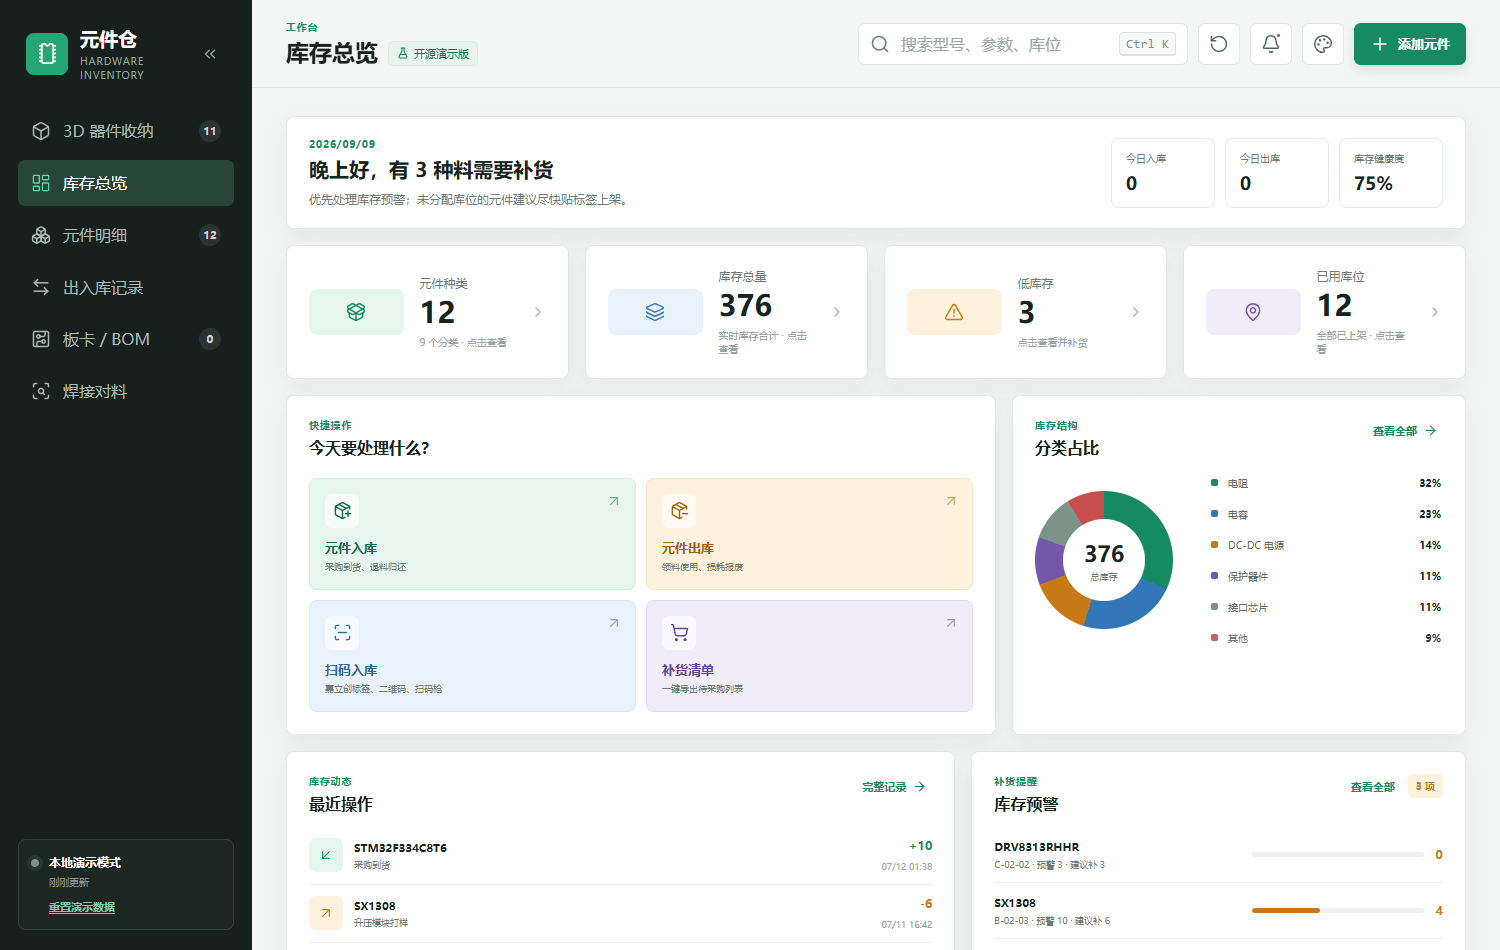
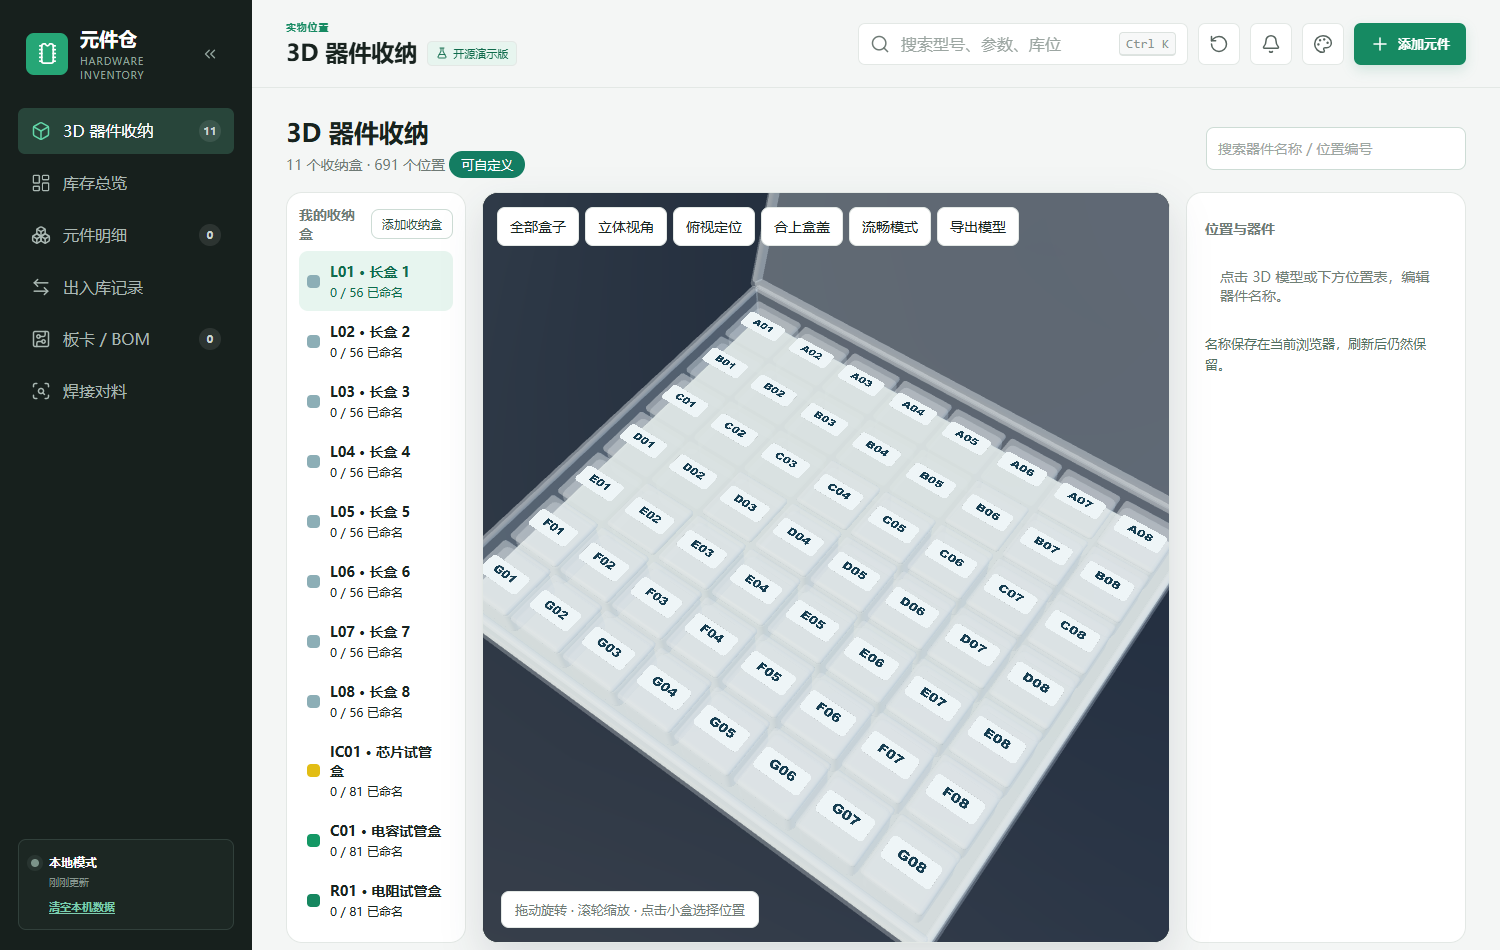
Start with an empty local warehouse and add local data reset

diff --git a/public/app.js b/public/app.js
@@ -1,7 +1,7 @@
 (() => {
   'use strict';
 
-  const STORAGE_KEY = 'component-vault-demo-data-v1';
+  const STORAGE_KEY = 'component-vault-open-source-data-v1';
   const CATEGORY_COLORS = ['#168a62', '#3377b8', '#c77917', '#7358ac', '#7c938a', '#c84e4e'];
   const titleMap = {
     storage: ['实物位置', '3D 器件收纳'],
@@ -14,36 +14,18 @@
 
   const lcscApiBase = String(window.LCSC_LOOKUP?.apiBase || '').replace(/\/$/, '');
   let syncStatus = 'local';
-  let syncMessage = '本地演示模式 · 数据只保存在当前浏览器';
+  let syncMessage = '本地模式 · 数据只保存在当前浏览器';
 
+  // 开源版默认是空仓库：不包含任何真实库存或演示元件。
+  // 访问者可以自己添加元件，数据只保存在浏览器 localStorage。
   const demoData = {
-    components: [
-      { id: 'cmp-001', name: 'STM32F334C8T6', code: 'C8734', category: 'MCU', brand: 'ST', package: 'LQFP-48', specs: 'Cortex-M4 · 72MHz · 128KB Flash', location: 'A-01-03', quantity: 18, min: 5, supplier: '立创商城', notes: '主控平台首选', updatedAt: '2026-07-12T01:38:00+08:00' },
-      { id: 'cmp-002', name: 'EG1192S', code: 'C49307690', category: 'DC-DC 电源', brand: 'EG（屹晶微）', package: 'ESOP-8', specs: '降压型 10V~100V · 3A · 110kHz', location: 'B-02-01', quantity: 30, min: 8, supplier: '立创商城', notes: '', updatedAt: '2026-07-12T01:12:00+08:00' },
-      { id: 'cmp-003', name: 'AP63356DV-7', code: 'C2157973', category: 'DC-DC 电源', brand: 'DIODES', package: 'VDFN3020-13', specs: '降压型 3.8V~32V · 3.5A', location: 'B-02-02', quantity: 20, min: 6, supplier: '立创商城', notes: '', updatedAt: '2026-07-11T18:20:00+08:00' },
-      { id: 'cmp-004', name: 'SX1308', code: 'C78162', category: 'DC-DC 电源', brand: 'SX（硕芯科技）', package: 'SOT-23-6', specs: '升压型 2V~24V · 2A · 1.2MHz', location: 'B-02-03', quantity: 4, min: 10, supplier: '立创商城', notes: '库存偏低', updatedAt: '2026-07-11T16:42:00+08:00' },
-      { id: 'cmp-005', name: 'CH340N', code: 'C506813', category: '接口芯片', brand: 'WCH（沁恒）', package: 'SOP-8', specs: 'USB 转串口 · 3.3V/5V', location: 'A-03-01', quantity: 25, min: 8, supplier: '立创商城', notes: '', updatedAt: '2026-07-10T20:05:00+08:00' },
-      { id: 'cmp-006', name: 'INA240A1PWR', code: 'C191104', category: '模拟芯片', brand: 'TI', package: 'TSSOP-8', specs: '电流检测 · 20V/V · -4V~80V', location: 'C-01-04', quantity: 3, min: 5, supplier: '立创商城', notes: '电机电流采样', updatedAt: '2026-07-10T17:30:00+08:00' },
-      { id: 'cmp-007', name: 'UCC21520DWR', code: 'C192067', category: '栅极驱动', brand: 'TI', package: 'SOIC-16W', specs: '双通道隔离驱动 · 4A/6A', location: 'C-02-01', quantity: 12, min: 4, supplier: '立创商城', notes: '', updatedAt: '2026-07-09T14:15:00+08:00' },
-      { id: 'cmp-008', name: 'DRV8313RHHR', code: 'C92458', category: '电机驱动', brand: 'TI', package: 'VQFN-36', specs: '三路半桥 · 2.5A · 8V~60V', location: 'C-02-02', quantity: 0, min: 3, supplier: '立创商城', notes: '待采购', updatedAt: '2026-07-09T10:08:00+08:00' },
-      { id: 'cmp-009', name: 'CH224K', code: 'C970725', category: '接口芯片', brand: 'WCH（沁恒）', package: 'ESSOP-10', specs: 'USB PD 受电协议 · 5V~20V', location: 'A-03-02', quantity: 16, min: 5, supplier: '立创商城', notes: '', updatedAt: '2026-07-08T19:20:00+08:00' },
-      { id: 'cmp-010', name: 'TPD4E05U06DQAR', code: 'C138714', category: '保护器件', brand: 'TI', package: 'USON-10', specs: '4 通道 ESD · 5.5V · 0.5pF', location: 'D-01-01', quantity: 42, min: 15, supplier: '立创商城', notes: '', updatedAt: '2026-07-08T13:54:00+08:00' },
-      { id: 'cmp-011', name: '100nF ±10% 50V', code: 'C14663', category: '电容', brand: '三星电机', package: '0603', specs: 'X7R · 100nF · ±10% · 50V', location: 'E-01-02', quantity: 86, min: 50, supplier: '立创商城', notes: '通用去耦', updatedAt: '2026-07-07T21:32:00+08:00' },
-      { id: 'cmp-012', name: '10kΩ ±1%', code: 'C25804', category: '电阻', brand: '厚声', package: '0603', specs: '10kΩ · ±1% · 100mW', location: 'E-02-01', quantity: 120, min: 50, supplier: '立创商城', notes: '通用阻值', updatedAt: '2026-07-07T18:10:00+08:00' }
-    ],
-    transactions: [
-      { id: 'txn-001', componentId: 'cmp-001', type: 'in', quantity: 10, note: '采购到货', createdAt: '2026-07-12T01:38:00+08:00' },
-      { id: 'txn-002', componentId: 'cmp-004', type: 'out', quantity: 6, note: '升压模块打样', createdAt: '2026-07-11T16:42:00+08:00' },
-      { id: 'txn-003', componentId: 'cmp-006', type: 'out', quantity: 2, note: '电流采样板', createdAt: '2026-07-10T17:30:00+08:00' },
-      { id: 'txn-004', componentId: 'cmp-005', type: 'in', quantity: 20, note: '采购补充', createdAt: '2026-07-10T20:05:00+08:00' },
-      { id: 'txn-005', componentId: 'cmp-008', type: 'out', quantity: 3, note: '无刷电机驱动板', createdAt: '2026-07-09T10:08:00+08:00' },
-      { id: 'txn-006', componentId: 'cmp-010', type: 'in', quantity: 30, note: '常用料补货', createdAt: '2026-07-08T13:54:00+08:00' }
-    ],
+    components: [],
+    transactions: [],
     boardProjects: [],
     lastSavedAt: new Date().toISOString()
   };
 
-  const CURRENT_SEED_VERSION = 'demo-v2';
+  const CURRENT_SEED_VERSION = 'open-source-empty-v1';
   const initialData = { ...demoData, favorites: [], boardProjects: [], seedVersion: CURRENT_SEED_VERSION };
 
   let state = loadLocalState();
@@ -139,7 +121,7 @@
     const statusBox = $('#sidebarStatus');
     if (!title || !detail || !statusBox) return;
 
-    title.textContent = '本地演示模式';
+    title.textContent = '本地模式';
     detail.textContent = syncMessage || relativeTime(state.lastSavedAt);
     statusBox.dataset.sync = 'local';
   }
@@ -2251,11 +2233,11 @@
       if ($('#csvFileInput').files[0]) importAnyFile($('#csvFileInput').files[0]);
     });
     function resetDemoData() {
-      if (!window.confirm('重置为内置演示数据？当前浏览器里的本地修改会被覆盖。')) return;
+      if (!window.confirm('清空当前浏览器里的本地数据？你添加的元件、流水、板卡和 3D 位置都会被删除，且无法恢复。')) return;
       state = clone(initialData);
       persistLocal();
       renderAll();
-      showToast('已重置为演示数据');
+      showToast('本机数据已清空');
     }
     $('#syncNowButton')?.addEventListener('click', resetDemoData);
     $('#syncNowButtonTop')?.addEventListener('click', resetDemoData);
@@ -2411,7 +2393,7 @@
   };
   bindEvents();
   persistLocal();
-  setSyncStatus('local', '本地演示模式 · 数据只保存在当前浏览器');
+  setSyncStatus('local', '本地模式 · 数据只保存在当前浏览器');
   renderAll();
   if (new URLSearchParams(location.search).get('view') === 'storage') switchView('storage');
 })();

diff --git a/public/index.html b/public/index.html
@@ -55,9 +55,9 @@
       <div class="sidebar-status" id="sidebarStatus" data-sync="local">
         <span class="status-dot"></span>
         <div>
-          <strong id="syncTitle">本地演示模式</strong>
+          <strong id="syncTitle">本地模式</strong>
           <small id="lastSaved">数据只保存在当前浏览器</small>
-          <button type="button" class="sync-button" id="syncNowButton">重置演示数据</button>
+          <button type="button" class="sync-button" id="syncNowButton">清空本机数据</button>
         </div>
       </div>
     </aside>
@@ -77,7 +77,7 @@
             <input id="globalSearch" type="search" placeholder="搜索型号、参数、库位" autocomplete="off">
             <kbd>Ctrl K</kbd>
           </label>
-          <button class="icon-button" id="syncNowButtonTop" title="重置演示数据" aria-label="重置演示数据">
+          <button class="icon-button" id="syncNowButtonTop" title="清空本机数据" aria-label="清空本机数据">
             <i data-lucide="rotate-ccw"></i>
           </button>
           <button class="icon-button" id="lowStockShortcut" title="查看低库存" aria-label="查看低库存">

diff --git a/README.md b/README.md
@@ -3,7 +3,7 @@
 > Hardware Inventory Demo — 本地电子元器件库存管理，含 3D 器件收纳、BOM 导入、Gerber 焊接对料和 12 套主题。  
 > 纯静态前端：**没有账号系统、没有云端同步、没有 Cloudflare Worker / D1、没有管理员后台**。所有数据只保存在浏览器 `localStorage`。
 
-![库存总览](docs/screenshot.png)
+![3D 器件收纳](docs/screenshot.png)
 
 ![12 套主题](docs/themes.png)
 
@@ -66,21 +66,23 @@ python -m http.server 4173 --directory public
 
 ---
 
-## 演示数据
+## 初始数据与本地存储
 
-- 内置 **12 条合成元件**和 **6 条出入库流水**，不包含任何真实库存数据。
-- 首次打开使用内置演示数据；之后的修改保存在浏览器 `localStorage`。
-- 顶栏的「重置演示数据」按钮可以一键恢复内置演示数据。
+- 默认是**空仓库**：不包含任何真实库存，也不预置演示元件；首次打开所有统计为 0。
+- 访问者可以自己添加元件、导入 BOM、编辑 3D 位置；所有数据只保存在当前浏览器 `localStorage`。
+- 顶栏的「清空本机数据」按钮可以一键删除当前浏览器里的本地数据。
 - 换浏览器、换设备或清除浏览器数据后，数据不会自动同步。
 
 本地存储键：
 
 | 键 | 用途 |
 | --- | --- |
-| `component-vault-demo-data-v1` | 库存、流水、板卡、3D 位置、收纳盒 |
+| `component-vault-open-source-data-v1` | 元件、流水、板卡、3D 位置、收纳盒 |
 | `component-vault-theme` | 当前主题 |
 | `component-vault-theme-mode` | 当前主题明暗模式 |
 | `component-vault-sidebar-collapsed` | 侧栏收缩状态 |
+
+![空仓库的元件明细](docs/empty-inventory.png)
 
 ---
 
@@ -148,13 +150,14 @@ window.LCSC_LOOKUP = { apiBase: '' };
 - 没有账号、密码、Cookie、Token、Session。
 - 没有云端同步，没有后端数据库。
 - 没有上传接口；BOM、Gerber、二维码都在浏览器本地解析。
-- 演示数据是合成数据，不包含任何真实库存、邮箱或账号信息。
+- 仓库默认不包含任何库存数据；访问者自己添加的数据只保存在本机浏览器，不会上传。
 - 导入自己的 BOM / Gerber 时，文件只在当前浏览器内处理。
 
 ---
 
 ## 已知限制
 
+- 默认是空仓库，需要自己添加元件或导入 BOM 才能看到库存数据。
 - 数据只保存在当前浏览器，不跨设备、不跨浏览器同步。
 - 3D 模型是程序生成的展示模型，没有毫米级尺寸标定，不能用于加工。
 - BOM 中同一行包含多个阻值/容值时，系统会拆分并匹配，但不会猜测每种值的实际数量；数量需要人工确认后才会扣库存。

diff --git a/THIRD_PARTY_NOTICES.md b/THIRD_PARTY_NOTICES.md
@@ -46,4 +46,4 @@
 ## 数据说明
 
 本仓库不包含任何真实库存、账号、邮箱、密码、会话或云端数据。  
-`public/app.js` 中的演示元件与流水是合成数据，仅用于展示界面；所有修改只保存在访问者自己的浏览器 localStorage 中。
+本仓库默认不包含任何库存数据；访问者自己添加的元件、流水、板卡和 3D 位置只保存在其浏览器 localStorage 中，不会上传到任何服务器。
